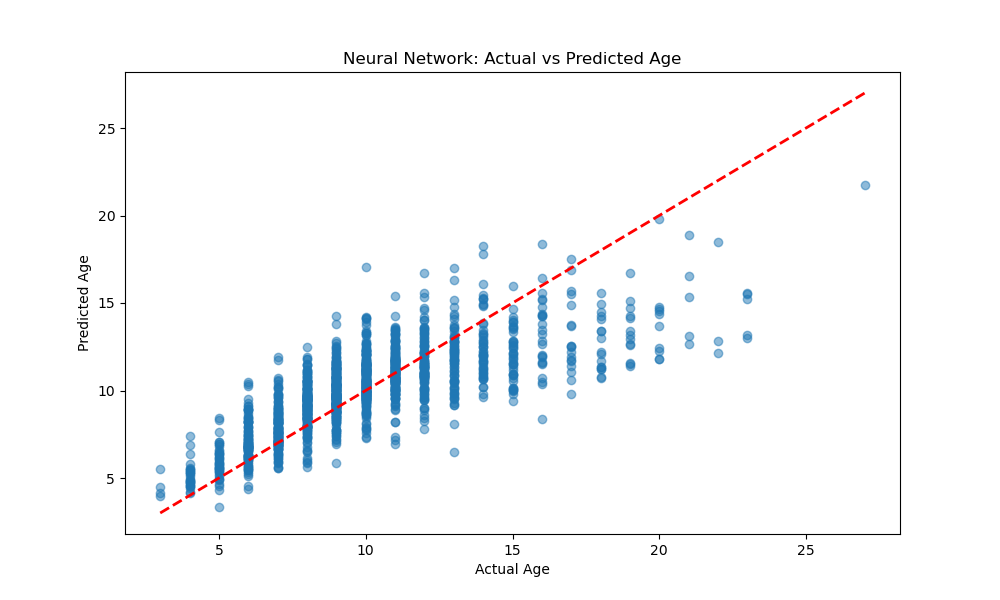
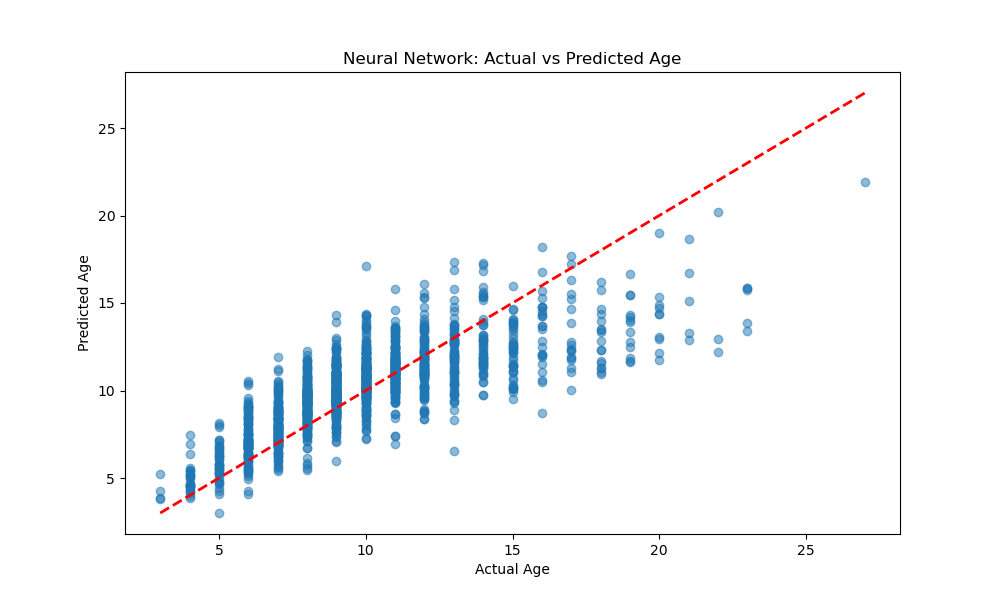
final

diff --git a/model.py b/model.py
@@ -1,7 +1,6 @@
 # Author: Ethan FAN
 import os
 import matplotlib.gridspec as gridspec
-import matplotlib.pyplot as plt
 import pandas as pd
 from functools import wraps
 import numpy as np
@@ -15,6 +14,10 @@ from sklearn.model_selection import GridSearchCV
 from sklearn.preprocessing import StandardScaler, MinMaxScaler
 import random
 from sklearn.utils.class_weight import compute_class_weight
+import matplotlib
+
+matplotlib.use('Agg')
+import matplotlib.pyplot as plt
 
 DATA_FILE = "data/abalone.data"
 IMAGE_DIR = "images"
@@ -563,9 +566,11 @@ def linear_regression(train_data, test_data):
                  ha='left', va='center', fontsize=7)
 
     # Adjust layout and save figure
-    plt.tight_layout()
-    plt.savefig('images/regression_and_classification_analysis.png', dpi=300, bbox_inches='tight')
-    plt.close()
+    plt.savefig('images/regression_and_classification_analysis.png', dpi=150, bbox_inches='tight')
+    plt.close(fig)
+    plt.close('all')
+
+    print(f'Regressions have been saved as \'images/regression_and_classification_analysis.png\'')
 
 
 @question_decorator(2, 2)
@@ -692,7 +697,10 @@ def compare_regression_models(train_data, test_data):
     plt.savefig('images/model_comparison_with_auc.png', bbox_inches='tight')
     plt.close()
 
+    print(f'\'images/model_comparison_with_auc.png\' has been saved.')
+
     return results_df
+
 
 @question_decorator(2, 3)
 def combined_regression_analysis(train_data, test_data, first_feature, second_feature):
@@ -798,7 +806,10 @@ def combined_regression_analysis(train_data, test_data, first_feature, second_fe
     plt.savefig('images/regression_comparison.png')
     plt.close()
 
+    print('\'images/regression_comparison.png\' has been saved.')
+
     return results
+
 
 @question_decorator(2, 4)
 def neural_network_regression(train_data, test_data):
@@ -833,9 +844,15 @@ def neural_network_regression(train_data, test_data):
 
     # Define parameter range for grid search
     param_grid = {
-        'hidden_layer_sizes': [(32,), (64,), (128,), (32, 32), (64, 64)],
+        'hidden_layer_sizes': [
+            (50,), (100,),  # 单层，不同神经元数
+            (50, 25), (25, 10),  # 两层，逐渐减少
+            (25, 50), (10, 25),  # 两层，逐渐增加
+            (50, 50), (25, 25),  # 两层，相同大小
+            (50, 25, 10), (10, 25, 50)  # 三层，金字塔结构
+        ],
         'learning_rate_init': [0.1, 0.01, 0.001],
-        'max_iter': [1000],
+        'max_iter': [10000],
         'solver': ['sgd']
     }
 
@@ -897,11 +914,15 @@ def neural_network_regression(train_data, test_data):
     plt.savefig('images/nn_actual_vs_predicted.png')
     plt.close()
 
+    print('\'images/nn_actual_vs_predicted.png\' has been saved.')
+
     return best_model, test_rmse, test_r2
+
 
 @question_decorator(2, 5)
 def compare_models():
     pass
+
 
 if __name__ == "__main__":
     # Part 1: Data Processing
